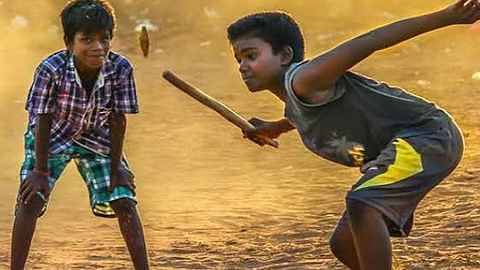
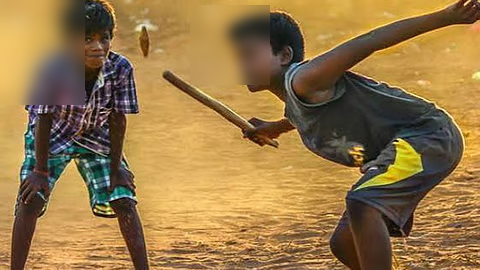
Blur children's faces in game photos and update testimonials
Blurs faces in tyre, kittipul, kannamuchi, nondi, and kayaru game photos
for privacy. Also includes updated testimonial names/quotes.

diff --git a/index.html b/index.html
@@ -849,22 +849,22 @@
     <div class="testimonials-grid">
       <div class="testimonial-card">
         <div class="testimonial-stars">★★★★★</div>
-        <p>"An absolutely magical experience! We came with our kids and they had the time of their lives. The farm animals, the pond, the fresh food — everything was perfect. We will definitely be back!"</p>
+        <p>"An absolutely magical experience! We came with our kids and they had the time of their lives. The Pumpset — everything was perfect. We will definitely be back!"</p>
         <div class="testimonial-author">
           <div class="author-avatar">R</div>
           <div class="author-info">
-            <strong>Ramya Krishnan</strong>
+            <strong>Diya</strong>
             <span>Chennai</span>
           </div>
         </div>
       </div>
       <div class="testimonial-card">
         <div class="testimonial-stars">★★★★★</div>
-        <p>"We celebrated our anniversary here and it was beyond all expectations. The hosts are incredibly warm and the farm is breathtakingly beautiful. The home-cooked meals were outstanding!"</p>
+        <p>"We celebrated our anniversary here and it was beyond all expectations.The farm is breathtakingly beautiful."</p>
         <div class="testimonial-author">
           <div class="author-avatar">A</div>
           <div class="author-info">
-            <strong>Arun &amp; Divya</strong>
+            <strong>Ganesh &amp; Priya</strong>
             <span>Bengaluru</span>
           </div>
         </div>
@@ -875,7 +875,7 @@
         <div class="testimonial-author">
           <div class="author-avatar">S</div>
           <div class="author-info">
-            <strong>Suresh Babu</strong>
+            <strong>RajaGopal</strong>
             <span>Coimbatore</span>
           </div>
         </div>
